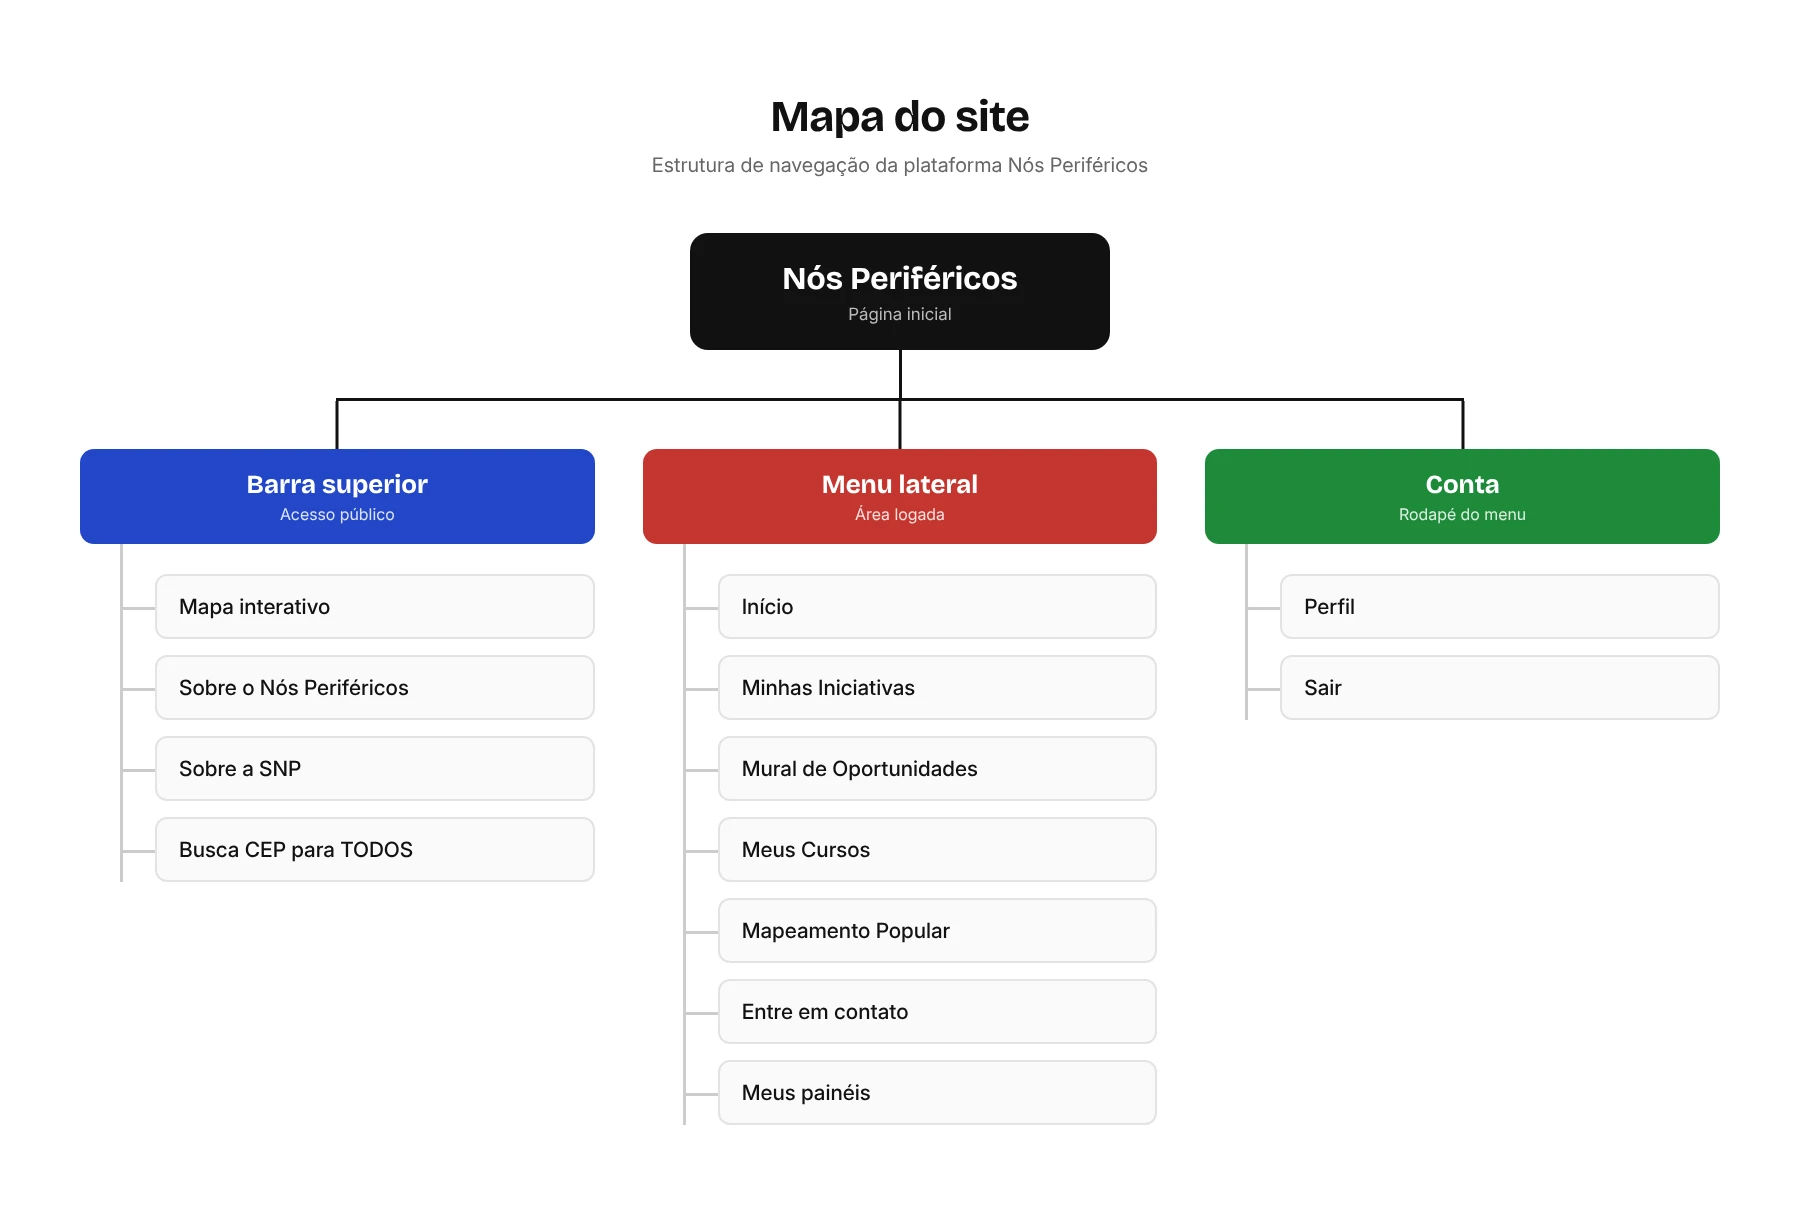
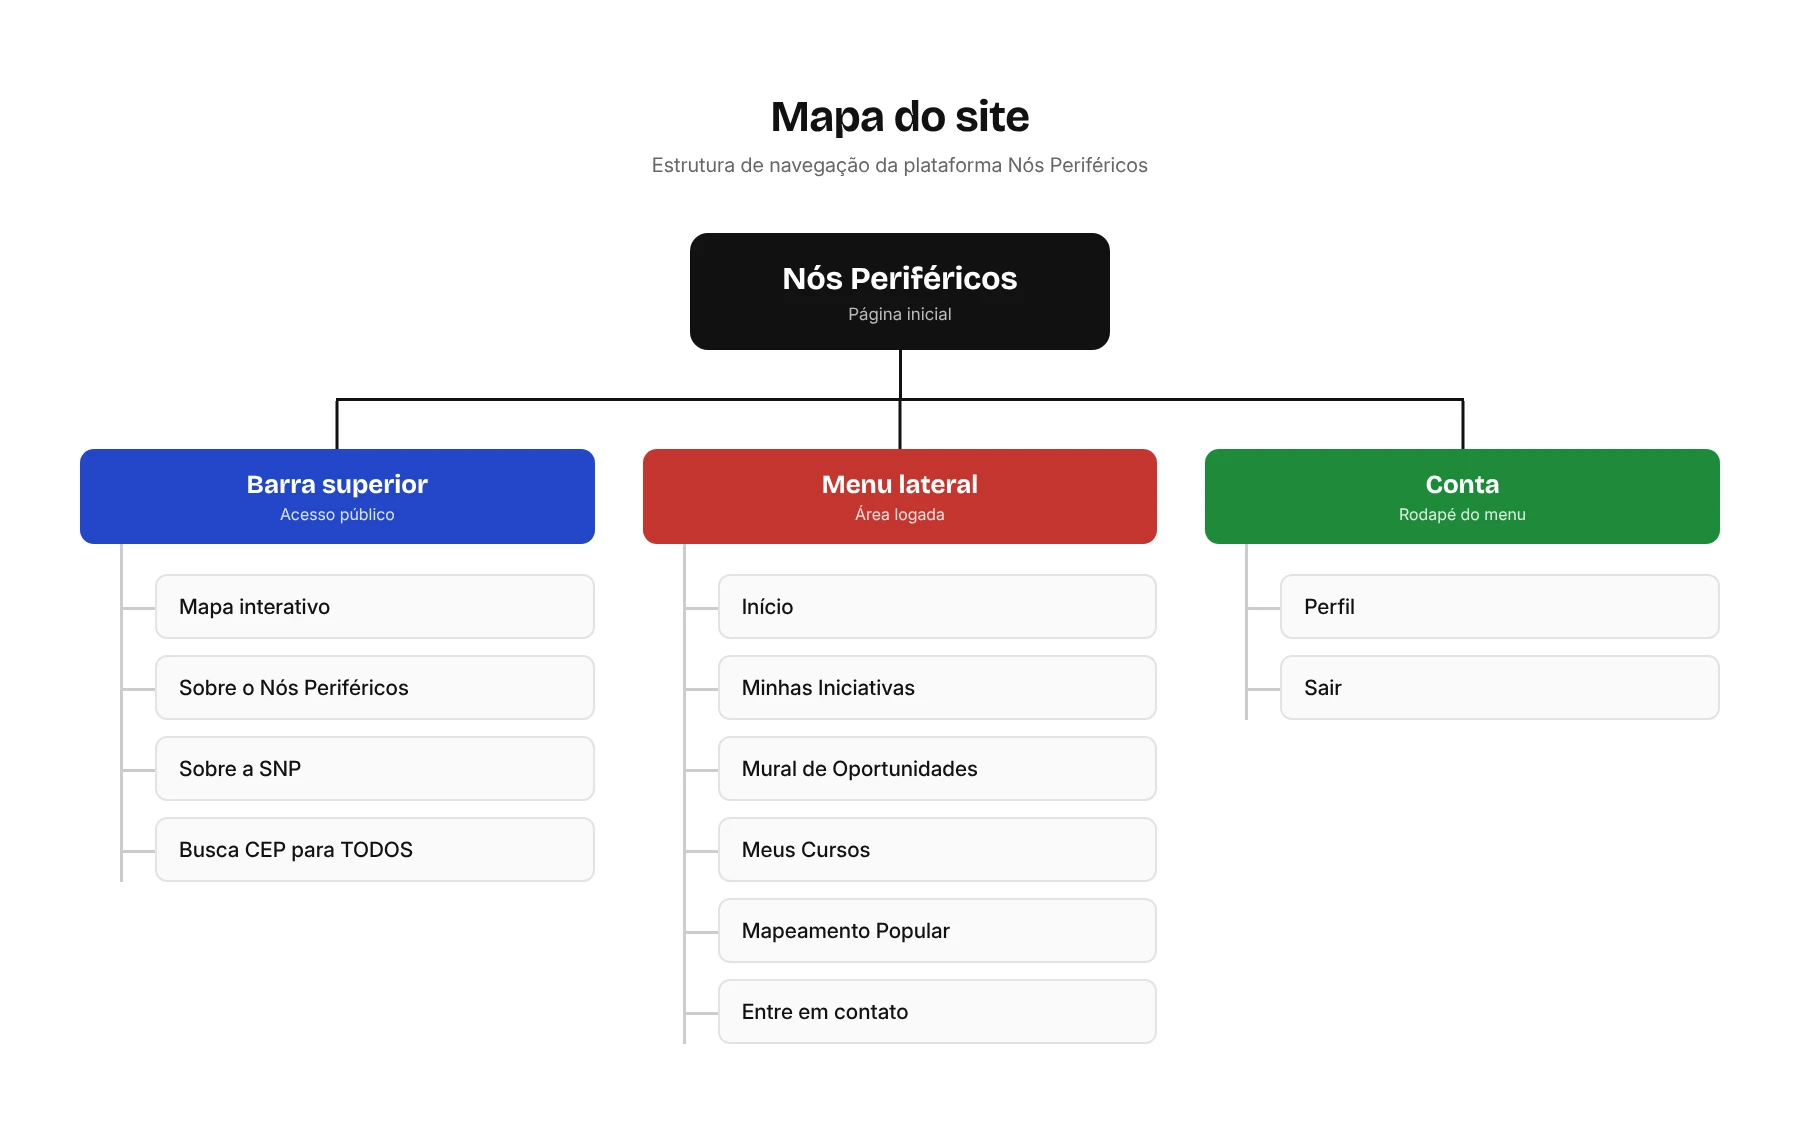
Link do site em destaque no Nós Periféricos e LabRua; tira Meus painéis do mapa do site
Claude-Session: https://claude.ai/code/session_012AxJFdE54PENw1WeYu8UBg

diff --git a/projetos/nos-perifericos.html b/projetos/nos-perifericos.html
@@ -11,7 +11,7 @@
 <meta name="theme-color" content="#f3f4f5">
 <link rel="icon" href="../assets/favicon.svg" type="image/svg+xml">
 <link rel="preconnect" href="https://fonts.googleapis.com"><link rel="preconnect" href="https://fonts.gstatic.com" crossorigin><link href="https://fonts.googleapis.com/css2?family=Bricolage+Grotesque:opsz,wdth,wght@12..96,75..100,200..800&family=Inter:opsz,wght@14..32,400..700&family=Quicksand:wght@400..700&family=Lato:wght@400;700&display=swap" rel="stylesheet">
-<link rel="stylesheet" href="../assets/css/style.css?v=1792247702">
+<link rel="stylesheet" href="../assets/css/style.css?v=1792248882">
 <script>document.documentElement.classList.add('js')</script>
 </head>
 <body>
@@ -55,8 +55,8 @@
 <h3>Larissa: encontrar iniciativas parecidas</h3>
 <p>Larissa quer organizar um evento e conhecer iniciativas que atuam na mesma temática, mas não sabe por onde começar a busca e não confia nas informações que encontra. Daí surgiram oportunidades como um catálogo de iniciativas, agrupamento por temática e região, perfis completos das iniciativas e espaços de discussão.</p>
 </div></section><figure class="figure" data-reveal><a class="figure__frame" href="../assets/img/np-jornada-larissa.webp?v=68d54871" target="_blank" rel="noopener" data-cursor="Ampliar"><img src="../assets/img/np-jornada-larissa.webp?v=68d54871" alt="Jornada da Larissa em cinco fases, da decisão de organizar um evento à troca de experiências, com curva de emoções" loading="lazy"></a><figcaption>Jornada da Larissa.</figcaption></figure><section class="block"><h2 data-reveal>Arquitetura de informação</h2><div class="block__body" data-reveal>
-<p>A navegação foi organizada em três partes. A barra superior reúne o que qualquer pessoa pode acessar sem cadastro, como o mapa interativo, a Busca CEP para TODOS e as páginas institucionais. O menu lateral concentra a área de quem está logado: iniciativas, oportunidades, cursos, mapeamento popular, contato e painéis. No rodapé do menu ficam o perfil e a saída da conta.</p>
-</div></section><figure class="figure" data-reveal><a class="figure__frame" href="../assets/img/np-sitemap.webp?v=2496dc2c" target="_blank" rel="noopener" data-cursor="Ampliar"><img src="../assets/img/np-sitemap.webp?v=2496dc2c" alt="Mapa do site do Nós Periféricos: a página inicial se divide em barra superior (mapa interativo, sobre o Nós Periféricos, sobre a SNP, Busca CEP para TODOS), menu lateral da área logada (início, minhas iniciativas, mural de oportunidades, meus cursos, mapeamento popular, entre em contato, meus painéis) e conta (perfil, sair)" loading="lazy"></a><figcaption>Mapa do site.</figcaption></figure><section class="block"><h2 data-reveal>O que os dados de uso mostram</h2><div class="block__body" data-reveal>
+<p>A navegação foi organizada em três partes. A barra superior reúne o que qualquer pessoa pode acessar sem cadastro, como o mapa interativo, a Busca CEP para TODOS e as páginas institucionais. O menu lateral concentra a área de quem está logado: iniciativas, oportunidades, cursos, mapeamento popular e contato. No rodapé do menu ficam o perfil e a saída da conta.</p>
+</div></section><figure class="figure" data-reveal><a class="figure__frame" href="../assets/img/np-sitemap.webp?v=4255c0c2" target="_blank" rel="noopener" data-cursor="Ampliar"><img src="../assets/img/np-sitemap.webp?v=4255c0c2" alt="Mapa do site do Nós Periféricos: a página inicial se divide em barra superior (mapa interativo, sobre o Nós Periféricos, sobre a SNP, Busca CEP para TODOS), menu lateral da área logada (início, minhas iniciativas, mural de oportunidades, meus cursos, mapeamento popular, entre em contato) e conta (perfil, sair)" loading="lazy"></a><figcaption>Mapa do site.</figcaption></figure><section class="block"><h2 data-reveal>O que os dados de uso mostram</h2><div class="block__body" data-reveal>
 <p>Com a plataforma no ar, os painéis de dados passaram a mostrar quem de fato se cadastra e onde a experiência perde pessoas. Separei os números que mais pesam nas decisões de design das próximas versões (dados de outubro de 2026).</p>
 <div class="stats">
   <div class="stat"><b>55 mil</b><span>pessoas cadastradas desde o lançamento, com picos de mais de 30 mil cadastros numa única semana</span></div>
@@ -85,7 +85,7 @@
   <li>Quando não há resultado, a tela indica o WhatsApp da equipe em vez de terminar num beco sem saída.</li>
 </ul>
 </div></section><figure class="figure" data-reveal><div class="pair"><a class="figure__frame" href="../assets/img/np-cep-celular.webp?v=75b49737" target="_blank" rel="noopener" data-cursor="Ampliar"><img src="../assets/img/np-cep-celular.webp?v=75b49737" alt="Celular mostrando a Busca CEP para TODOS com os filtros de UF, município e comunidade urbana, sob o anúncio de 100% das favelas e comunidades urbanas com CEP" loading="lazy"></a><a class="figure__frame" href="../assets/img/np-cep-notebook.webp?v=453648c3" target="_blank" rel="noopener" data-cursor="Ampliar"><img src="../assets/img/np-cep-notebook.webp?v=453648c3" alt="Notebook com a Busca CEP para TODOS mostrando três comunidades de João Pessoa e seus CEPs na coluna destacada" loading="lazy"></a></div><figcaption>A busca no celular e no computador.</figcaption></figure>
-
+<div class="live" data-reveal><span class="live__label">Conheça a plataforma no ar</span><a class="live__link" href="https://nosperifericos.cidades.gov.br" target="_blank" rel="noopener">nosperifericos.cidades.gov.br <span aria-hidden="true">↗</span></a></div>
 <a class="next" href="cte.html"><span class="next__in"><span><span class="next__label">Próximo projeto</span><span class="next__name">Cadastro Técnico Estadual</span></span><span class="next__arrow" aria-hidden="true">→</span></span></a>
 </div>
 </main>
@@ -93,6 +93,6 @@
   <span>© <span id="ano">2026</span> Raiza Tomazoni</span>
   <a class="u" href="https://www.linkedin.com/in/raizatomazoni/" target="_blank" rel="noopener">linkedin.com/in/raizatomazoni</a>
 </div></footer>
-<script src="../assets/js/main.js?v=1792247702" defer></script>
+<script src="../assets/js/main.js?v=1792248882" defer></script>
 </body>
 </html>

diff --git a/projetos/labrua.html b/projetos/labrua.html
@@ -11,7 +11,7 @@
 <meta name="theme-color" content="#f3f4f5">
 <link rel="icon" href="../assets/favicon.svg" type="image/svg+xml">
 <link rel="preconnect" href="https://fonts.googleapis.com"><link rel="preconnect" href="https://fonts.gstatic.com" crossorigin><link href="https://fonts.googleapis.com/css2?family=Bricolage+Grotesque:opsz,wdth,wght@12..96,75..100,200..800&family=Inter:opsz,wght@14..32,400..700&family=Quicksand:wght@400..700&family=Lato:wght@400;700&display=swap" rel="stylesheet">
-<link rel="stylesheet" href="../assets/css/style.css?v=1792247702">
+<link rel="stylesheet" href="../assets/css/style.css?v=1792248882">
 <script>document.documentElement.classList.add('js')</script>
 </head>
 <body>
@@ -46,7 +46,7 @@
   <li><b>Contato visível</b>: formulário e canais de contato aparecem junto ao bloco de diferenciais, antes do rodapé.</li>
 </ul>
 </div></section><figure class="figure" data-reveal><div class="phones"><img src="../assets/img/labrua-m-abertura.webp?v=376d7624" alt="Tela de abertura amarela com o logotipo do LabRua" loading="lazy"><img src="../assets/img/labrua-m-home.webp?v=06e1ce6c" alt="Início do site no celular com a frase A rua como laboratório" loading="lazy"><img src="../assets/img/labrua-m-nos.webp?v=d258f3dc" alt="Página O LabRua com a apresentação da associação" loading="lazy"><img src="../assets/img/labrua-m-eixos.webp?v=0efca597" alt="Eixos de atuação: Desenho Urbano, Planejamento Urbano e Regional e REURB" loading="lazy"><img src="../assets/img/labrua-m-equipe.webp?v=8812ad9c" alt="Página Equipe com diretores, coordenadores e associados voluntários" loading="lazy"><img src="../assets/img/labrua-m-historia.webp?v=d346ae05" alt="Página História com a linha do tempo do laboratório" loading="lazy"><img src="../assets/img/labrua-m-diferencial.webp?v=e58d9c9e" alt="Página Nosso diferencial com formulário de contato" loading="lazy"></div><figcaption>Algumas telas da versão para celular. Arraste para o lado para ver todas.</figcaption></figure>
-
+<div class="live" data-reveal><span class="live__label">Conheça o site no ar</span><a class="live__link" href="https://labrua.org" target="_blank" rel="noopener">labrua.org <span aria-hidden="true">↗</span></a></div>
 <a class="next" href="nos-perifericos.html"><span class="next__in"><span><span class="next__label">Próximo projeto</span><span class="next__name">Nós Periféricos</span></span><span class="next__arrow" aria-hidden="true">→</span></span></a>
 </div>
 </main>
@@ -54,6 +54,6 @@
   <span>© <span id="ano">2026</span> Raiza Tomazoni</span>
   <a class="u" href="https://www.linkedin.com/in/raizatomazoni/" target="_blank" rel="noopener">linkedin.com/in/raizatomazoni</a>
 </div></footer>
-<script src="../assets/js/main.js?v=1792247702" defer></script>
+<script src="../assets/js/main.js?v=1792248882" defer></script>
 </body>
 </html>

diff --git a/projetos/cte.html b/projetos/cte.html
@@ -11,7 +11,7 @@
 <meta name="theme-color" content="#f3f4f5">
 <link rel="icon" href="../assets/favicon.svg" type="image/svg+xml">
 <link rel="preconnect" href="https://fonts.googleapis.com"><link rel="preconnect" href="https://fonts.gstatic.com" crossorigin><link href="https://fonts.googleapis.com/css2?family=Bricolage+Grotesque:opsz,wdth,wght@12..96,75..100,200..800&family=Inter:opsz,wght@14..32,400..700&family=Quicksand:wght@400..700&family=Lato:wght@400;700&display=swap" rel="stylesheet">
-<link rel="stylesheet" href="../assets/css/style.css?v=1792247702">
+<link rel="stylesheet" href="../assets/css/style.css?v=1792248882">
 <script>document.documentElement.classList.add('js')</script>
 </head>
 <body>
@@ -172,6 +172,6 @@
   <span>© <span id="ano">2026</span> Raiza Tomazoni</span>
   <a class="u" href="https://www.linkedin.com/in/raizatomazoni/" target="_blank" rel="noopener">linkedin.com/in/raizatomazoni</a>
 </div></footer>
-<script src="../assets/js/main.js?v=1792247702" defer></script>
+<script src="../assets/js/main.js?v=1792248882" defer></script>
 </body>
 </html>

diff --git a/projetos/rangout.html b/projetos/rangout.html
@@ -11,7 +11,7 @@
 <meta name="theme-color" content="#f3f4f5">
 <link rel="icon" href="../assets/favicon.svg" type="image/svg+xml">
 <link rel="preconnect" href="https://fonts.googleapis.com"><link rel="preconnect" href="https://fonts.gstatic.com" crossorigin><link href="https://fonts.googleapis.com/css2?family=Bricolage+Grotesque:opsz,wdth,wght@12..96,75..100,200..800&family=Inter:opsz,wght@14..32,400..700&family=Quicksand:wght@400..700&family=Lato:wght@400;700&display=swap" rel="stylesheet">
-<link rel="stylesheet" href="../assets/css/style.css?v=1792247702">
+<link rel="stylesheet" href="../assets/css/style.css?v=1792248882">
 <script>document.documentElement.classList.add('js')</script>
 </head>
 <body>
@@ -221,6 +221,6 @@
   <span>© <span id="ano">2026</span> Raiza Tomazoni</span>
   <a class="u" href="https://www.linkedin.com/in/raizatomazoni/" target="_blank" rel="noopener">linkedin.com/in/raizatomazoni</a>
 </div></footer>
-<script src="../assets/js/main.js?v=1792247702" defer></script>
+<script src="../assets/js/main.js?v=1792248882" defer></script>
 </body>
 </html>

diff --git a/projetos/vitra.html b/projetos/vitra.html
@@ -11,7 +11,7 @@
 <meta name="theme-color" content="#f3f4f5">
 <link rel="icon" href="../assets/favicon.svg" type="image/svg+xml">
 <link rel="preconnect" href="https://fonts.googleapis.com"><link rel="preconnect" href="https://fonts.gstatic.com" crossorigin><link href="https://fonts.googleapis.com/css2?family=Bricolage+Grotesque:opsz,wdth,wght@12..96,75..100,200..800&family=Inter:opsz,wght@14..32,400..700&family=Quicksand:wght@400..700&family=Lato:wght@400;700&display=swap" rel="stylesheet">
-<link rel="stylesheet" href="../assets/css/style.css?v=1792247702">
+<link rel="stylesheet" href="../assets/css/style.css?v=1792248882">
 <script>document.documentElement.classList.add('js')</script>
 </head>
 <body>
@@ -125,6 +125,6 @@
   <span>© <span id="ano">2026</span> Raiza Tomazoni</span>
   <a class="u" href="https://www.linkedin.com/in/raizatomazoni/" target="_blank" rel="noopener">linkedin.com/in/raizatomazoni</a>
 </div></footer>
-<script src="../assets/js/main.js?v=1792247702" defer></script>
+<script src="../assets/js/main.js?v=1792248882" defer></script>
 </body>
 </html>

diff --git a/projetos/mapa-das-periferias.html b/projetos/mapa-das-periferias.html
@@ -11,7 +11,7 @@
 <meta name="theme-color" content="#f3f4f5">
 <link rel="icon" href="../assets/favicon.svg" type="image/svg+xml">
 <link rel="preconnect" href="https://fonts.googleapis.com"><link rel="preconnect" href="https://fonts.gstatic.com" crossorigin><link href="https://fonts.googleapis.com/css2?family=Bricolage+Grotesque:opsz,wdth,wght@12..96,75..100,200..800&family=Inter:opsz,wght@14..32,400..700&family=Quicksand:wght@400..700&family=Lato:wght@400;700&display=swap" rel="stylesheet">
-<link rel="stylesheet" href="../assets/css/style.css?v=1792247702">
+<link rel="stylesheet" href="../assets/css/style.css?v=1792248882">
 <script>document.documentElement.classList.add('js')</script>
 </head>
 <body>
@@ -56,6 +56,6 @@
   <span>© <span id="ano">2026</span> Raiza Tomazoni</span>
   <a class="u" href="https://www.linkedin.com/in/raizatomazoni/" target="_blank" rel="noopener">linkedin.com/in/raizatomazoni</a>
 </div></footer>
-<script src="../assets/js/main.js?v=1792247702" defer></script>
+<script src="../assets/js/main.js?v=1792248882" defer></script>
 </body>
 </html>

diff --git a/projetos/sudema-mais.html b/projetos/sudema-mais.html
@@ -11,7 +11,7 @@
 <meta name="theme-color" content="#f3f4f5">
 <link rel="icon" href="../assets/favicon.svg" type="image/svg+xml">
 <link rel="preconnect" href="https://fonts.googleapis.com"><link rel="preconnect" href="https://fonts.gstatic.com" crossorigin><link href="https://fonts.googleapis.com/css2?family=Bricolage+Grotesque:opsz,wdth,wght@12..96,75..100,200..800&family=Inter:opsz,wght@14..32,400..700&family=Quicksand:wght@400..700&family=Lato:wght@400;700&display=swap" rel="stylesheet">
-<link rel="stylesheet" href="../assets/css/style.css?v=1792247702">
+<link rel="stylesheet" href="../assets/css/style.css?v=1792248882">
 <script>document.documentElement.classList.add('js')</script>
 </head>
 <body>
@@ -54,6 +54,6 @@
   <span>© <span id="ano">2026</span> Raiza Tomazoni</span>
   <a class="u" href="https://www.linkedin.com/in/raizatomazoni/" target="_blank" rel="noopener">linkedin.com/in/raizatomazoni</a>
 </div></footer>
-<script src="../assets/js/main.js?v=1792247702" defer></script>
+<script src="../assets/js/main.js?v=1792248882" defer></script>
 </body>
 </html>

diff --git a/index.html b/index.html
@@ -11,7 +11,7 @@
 <meta name="theme-color" content="#f3f4f5">
 <link rel="icon" href="assets/favicon.svg" type="image/svg+xml">
 <link rel="preconnect" href="https://fonts.googleapis.com"><link rel="preconnect" href="https://fonts.gstatic.com" crossorigin><link href="https://fonts.googleapis.com/css2?family=Bricolage+Grotesque:opsz,wdth,wght@12..96,75..100,200..800&family=Inter:opsz,wght@14..32,400..700&family=Quicksand:wght@400..700&family=Lato:wght@400;700&display=swap" rel="stylesheet">
-<link rel="stylesheet" href="assets/css/style.css?v=1792247702">
+<link rel="stylesheet" href="assets/css/style.css?v=1792248882">
 <script>document.documentElement.classList.add('js')</script>
 </head>
 <body>
@@ -176,6 +176,6 @@
   <span>© <span id="ano">2026</span> Raiza Tomazoni</span>
   <a class="u" href="https://www.linkedin.com/in/raizatomazoni/" target="_blank" rel="noopener">linkedin.com/in/raizatomazoni</a>
 </div></footer>
-<script src="assets/js/main.js?v=1792247702" defer></script>
+<script src="assets/js/main.js?v=1792248882" defer></script>
 </body>
 </html>

diff --git a/_build/projects.py b/_build/projects.py
@@ -19,6 +19,8 @@ PROJECTS = {
     "cover_alt": "Celular na mão mostrando a tela inicial do Nós Periféricos, com saudação, aviso para completar o cadastro, destaque da Votação Popular e oportunidades",
     "case_cover": "np-capa.webp",
     "case_cover_alt": "Celular na mão mostrando a tela inicial do Nós Periféricos, com saudação, aviso para completar o cadastro, destaque da Votação Popular e oportunidades",
+    "live": ("https://nosperifericos.cidades.gov.br", "nosperifericos.cidades.gov.br"),
+    "live_label": "Conheça a plataforma no ar",
     "meta": [
         ("Papel", "UX/UI Designer"),
         ("Cliente", "Secretaria Nacional de Periferias"),
@@ -56,10 +58,10 @@ PROJECTS = {
             ("img", "np-jornada-larissa.webp", "Jornada da Larissa em cinco fases, da decisão de organizar um evento à troca de experiências, com curva de emoções", "Jornada da Larissa."),
          ]},
         {"title": "Arquitetura de informação", "html": """
-<p>A navegação foi organizada em três partes. A barra superior reúne o que qualquer pessoa pode acessar sem cadastro, como o mapa interativo, a Busca CEP para TODOS e as páginas institucionais. O menu lateral concentra a área de quem está logado: iniciativas, oportunidades, cursos, mapeamento popular, contato e painéis. No rodapé do menu ficam o perfil e a saída da conta.</p>
+<p>A navegação foi organizada em três partes. A barra superior reúne o que qualquer pessoa pode acessar sem cadastro, como o mapa interativo, a Busca CEP para TODOS e as páginas institucionais. O menu lateral concentra a área de quem está logado: iniciativas, oportunidades, cursos, mapeamento popular e contato. No rodapé do menu ficam o perfil e a saída da conta.</p>
 """,
          "media": [
-            ("img", "np-sitemap.webp", "Mapa do site do Nós Periféricos: a página inicial se divide em barra superior (mapa interativo, sobre o Nós Periféricos, sobre a SNP, Busca CEP para TODOS), menu lateral da área logada (início, minhas iniciativas, mural de oportunidades, meus cursos, mapeamento popular, entre em contato, meus painéis) e conta (perfil, sair)", "Mapa do site."),
+            ("img", "np-sitemap.webp", "Mapa do site do Nós Periféricos: a página inicial se divide em barra superior (mapa interativo, sobre o Nós Periféricos, sobre a SNP, Busca CEP para TODOS), menu lateral da área logada (início, minhas iniciativas, mural de oportunidades, meus cursos, mapeamento popular, entre em contato) e conta (perfil, sair)", "Mapa do site."),
          ]},
         {"title": "O que os dados de uso mostram", "html": """
 <p>Com a plataforma no ar, os painéis de dados passaram a mostrar quem de fato se cadastra e onde a experiência perde pessoas. Separei os números que mais pesam nas decisões de design das próximas versões (dados de outubro de 2026).</p>
@@ -581,6 +583,8 @@ PROJECTS = {
     "cover_alt": "Telas do site do LabRua em celulares e notebook sobre fundo roxo, com o logotipo no canto",
     "case_cover": "labrua-capa.webp",
     "case_cover_alt": "Telas do site do LabRua em celulares e notebook sobre fundo roxo, com o logotipo no canto",
+    "live": ("https://labrua.org", "labrua.org"),
+    "live_label": "Conheça o site no ar",
     "meta": [
         ("Papel", "UI Designer"),
         ("Cliente", "LabRua"),
